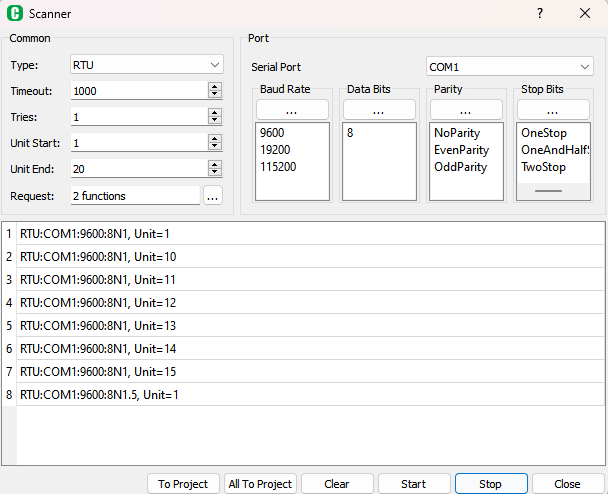
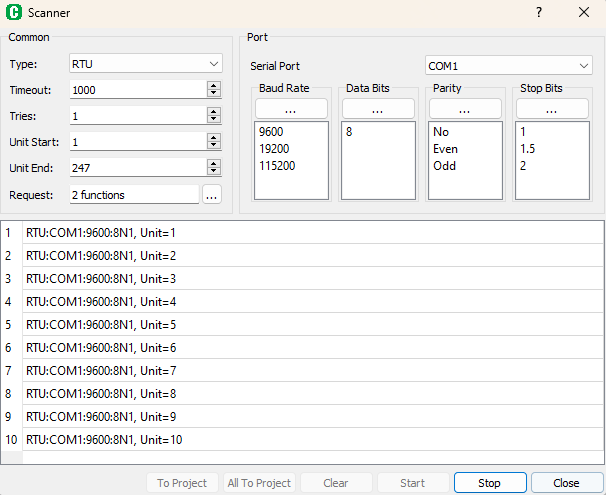
Improve client's Scanner Window

diff --git a/src/client/gui/scanner/client_scannerthread.cpp b/src/client/gui/scanner/client_scannerthread.cpp
@@ -90,6 +90,9 @@ void mbClientScannerThread::setSettings(const Modbus::Settings &settings)
     default:
         break;
     }
+    m_combinationCountAll = m_combinationCount * (m_unitEnd - m_unitStart + 1);
+    m_statTx = 0;
+    m_statRx = 0;
 }
 
 void mbClientScannerThread::run()
@@ -102,6 +105,8 @@ void mbClientScannerThread::run()
     Modbus::Settings settings = m_settings;
     uint8_t dummy[MB_MAX_BYTES];
     memset(dummy, 0, sizeof(dummy));
+
+    quint32 deviceCount = 0;
     for (int c = 0; m_ctrlRun && (c < m_combinationCount); c++)
     {
         // Get comibation number for each setting
@@ -218,6 +223,7 @@ void mbClientScannerThread::run()
                 if (!m_ctrlRun)
                     break;
             }
+            m_scanner->setStatPercent(++deviceCount*100/m_combinationCountAll);
         }
         clientPort->close();
         mbClient::LogInfo(s.name, QString("End scanning '%1'").arg(sName));
@@ -229,19 +235,35 @@ void mbClientScannerThread::run()
 void mbClientScannerThread::slotBytesTx(const Modbus::Char *source, const uint8_t *buff, uint16_t size)
 {
     mbClient::LogTxRx(mbClientScanner::Strings::instance().name + QString(" ") + source, QStringLiteral("Tx: ") + Modbus::bytesToString(buff, size).data());
+    incStatTx();
 }
 
 void mbClientScannerThread::slotBytesRx(const Modbus::Char *source, const uint8_t *buff, uint16_t size)
 {
     mbClient::LogTxRx(mbClientScanner::Strings::instance().name + QString(" ") + source, QStringLiteral("Rx: ") + Modbus::bytesToString(buff, size).data());
+    incStatRx();
 }
 
 void mbClientScannerThread::slotAsciiTx(const Modbus::Char *source, const uint8_t *buff, uint16_t size)
 {
     mbClient::LogTxRx(mbClientScanner::Strings::instance().name + QString(" ") + source, QStringLiteral("Tx: ") + Modbus::asciiToString(buff, size).data());
+    incStatTx();
 }
 
 void mbClientScannerThread::slotAsciiRx(const Modbus::Char *source, const uint8_t *buff, uint16_t size)
 {
     mbClient::LogTxRx(mbClientScanner::Strings::instance().name + QString(" ") + source, QStringLiteral("Rx: ") + Modbus::asciiToString(buff, size).data());
+    incStatRx();
+}
+
+void mbClientScannerThread::incStatTx()
+{
+    m_statTx++;
+    m_scanner->setStatCountTx(m_statTx);
+}
+
+void mbClientScannerThread::incStatRx()
+{
+    m_statRx++;
+    m_scanner->setStatCountRx(m_statRx);
 }

diff --git a/src/client/gui/scanner/client_scanner.h b/src/client/gui/scanner/client_scanner.h
@@ -127,17 +127,26 @@ public:
     inline int deviceCount() const { return m_deviceInfoList.count(); }
     QString deviceInfoStr(int i) const;
     void deviceAdd(const Modbus::Settings &settings);
+    inline quint32 statCountTx() const { return m_stat.countTx; }
+    inline quint32 statCountRx() const { return m_stat.countRx; }
+    inline quint32 statPercent() const { return m_stat.percent; }
 
 public:
     void addToProject(const QList<int> &indexes = QList<int>());
     void clear();
     void startScanning(const Modbus::Settings &settings);
     void stopScanning();
+    void setStatCountTx(quint32 count);
+    void setStatCountRx(quint32 count);
+    void setStatPercent(quint32 percent);
 
 Q_SIGNALS:
     void deviceAdded(int index);
     void cleared();
     void stateChanged(bool run);
+    void statCountTxChanged(quint32 count);
+    void statCountRxChanged(quint32 count);
+    void statPercentChanged(quint32 percent);
 
 private Q_SLOTS:
     void threadStarted();
@@ -155,6 +164,22 @@ private:
     mutable QReadWriteLock m_lock;
     QList<DeviceInfo> m_deviceInfoList;
     mbClientScannerThread *m_thread;
+
+private:
+    struct Statistics
+    {
+        Statistics()
+        {
+            countTx = 0;
+            countRx = 0;
+            percent = 0;
+        }
+
+        quint32 countTx;
+        quint32 countRx;
+        quint32 percent;
+    };
+    Statistics m_stat;
 };
 
 #endif // MBCLIENTSCANNER_H

diff --git a/src/client/gui/scanner/client_scannerui.cpp b/src/client/gui/scanner/client_scannerui.cpp
@@ -49,7 +49,13 @@ mbClientScannerUi::mbClientScannerUi(QWidget *parent) :
     const Modbus::Defaults &md = Modbus::Defaults::instance();
 
     m_scanner = new mbClientScanner(this);
+    setStatCountTx(m_scanner->statCountTx());
+    setStatCountRx(m_scanner->statCountRx());
+    setStatPercent(m_scanner->statPercent());
     connect(m_scanner, &mbClientScanner::stateChanged, this, &mbClientScannerUi::stateChange);
+    connect(m_scanner, &mbClientScanner::statCountTxChanged, this, &mbClientScannerUi::setStatCountTx);
+    connect(m_scanner, &mbClientScanner::statCountRxChanged, this, &mbClientScannerUi::setStatCountRx);
+    connect(m_scanner, &mbClientScanner::statPercentChanged, this, &mbClientScannerUi::setStatPercent);
 
     QVariantList vls;
     QLineEdit *ln;
@@ -323,6 +329,21 @@ void mbClientScannerUi::stateChange(bool run)
     ui->btnAddAll->setEnabled(enable);
     ui->btnClear ->setEnabled(enable);
     ui->btnStart ->setEnabled(enable);
+}
+
+void mbClientScannerUi::setStatCountTx(quint32 count)
+{
+    ui->lnStatTx->setText(QString::number(count));
+}
+
+void mbClientScannerUi::setStatCountRx(quint32 count)
+{
+    ui->lnStatRx->setText(QString::number(count));
+}
+
+void mbClientScannerUi::setStatPercent(quint32 p)
+{
+    ui->progressBar->setValue(p);
 }
 
 void mbClientScannerUi::closeEvent(QCloseEvent *)

diff --git a/src/client/gui/scanner/client_scanner.cpp b/src/client/gui/scanner/client_scanner.cpp
@@ -424,6 +424,9 @@ void mbClientScanner::clear()
 {
     QWriteLocker _(&m_lock);
     m_deviceInfoList.clear();
+    setStatCountTx(0);
+    setStatCountRx(0);
+    setStatPercent(0);
     Q_EMIT cleared();
 }
 
@@ -439,6 +442,33 @@ void mbClientScanner::startScanning(const Modbus::Settings &settings)
 void mbClientScanner::stopScanning()
 {
     m_thread->stop();
+}
+
+void mbClientScanner::setStatCountTx(quint32 count)
+{
+    if (m_stat.countTx != count)
+    {
+        m_stat.countTx = count;
+        Q_EMIT statCountTxChanged(count);
+    }
+}
+
+void mbClientScanner::setStatCountRx(quint32 count)
+{
+    if (m_stat.countRx != count)
+    {
+        m_stat.countRx = count;
+        Q_EMIT statCountRxChanged(count);
+    }
+}
+
+void mbClientScanner::setStatPercent(quint32 percent)
+{
+    if (m_stat.percent != percent)
+    {
+        m_stat.percent = percent;
+        Q_EMIT statPercentChanged(percent);
+    }
 }
 
 void mbClientScanner::threadStarted()

diff --git a/src/client/gui/scanner/client_scannerthread.h b/src/client/gui/scanner/client_scannerthread.h
@@ -49,6 +49,10 @@ private Q_SLOTS:
     void slotAsciiRx(const Modbus::Char *source, const uint8_t* buff, uint16_t size);
 
 private:
+    void incStatTx();
+    void incStatRx();
+
+private:
     bool m_ctrlRun;
 
 private:
@@ -72,7 +76,10 @@ private: // settings combination
     DivMods_t    m_divMods   ;
     Names_t      m_names     ;
     ValuesList_t m_valuesList;
-    int m_combinationCount;
+    quint32 m_combinationCount;
+    quint32 m_combinationCountAll;
+    quint32 m_statTx;
+    quint32 m_statRx;
 };
 
 #endif // CLIENT_SCANNERTHREAD_H

diff --git a/src/client/gui/scanner/client_scannerui.h b/src/client/gui/scanner/client_scannerui.h
@@ -67,6 +67,9 @@ private Q_SLOTS:
 private Q_SLOTS:
     void setType(int type);
     void stateChange(bool run);
+    void setStatCountTx(quint32 count);
+    void setStatCountRx(quint32 count);
+    void setStatPercent(quint32 p);
 
 private:
     void closeEvent(QCloseEvent*) override;
